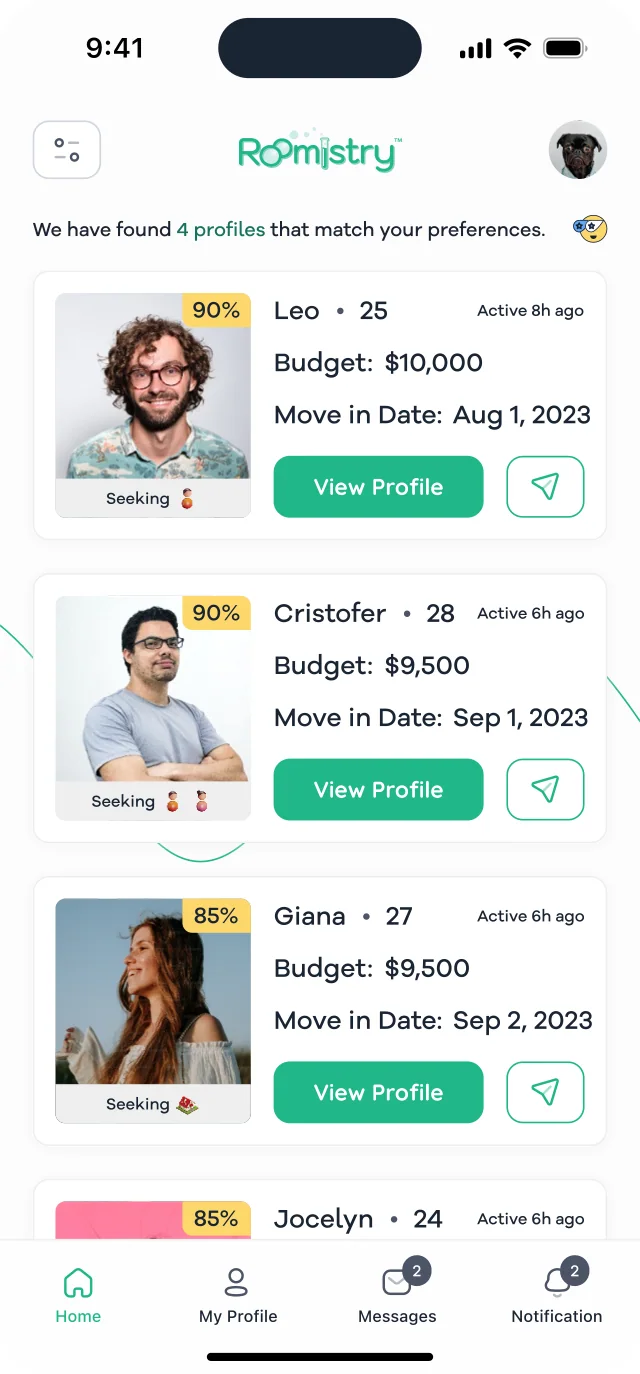
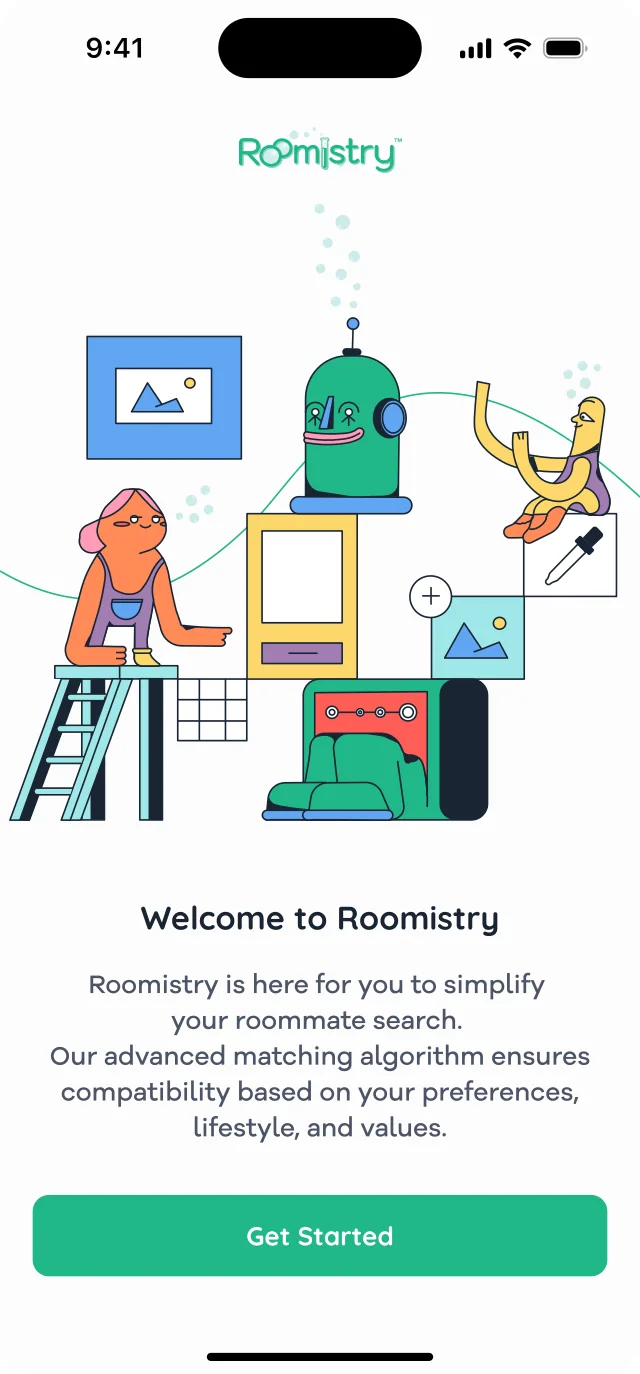
Proof: Roomistry phone steps through its seven-screen flow

diff --git a/src/content/story.ts b/src/content/story.ts
@@ -209,7 +209,19 @@ export const WORK: readonly WorkProject[] = [
       ['Platform', 'Mobile app'],
     ],
     media: [
-      m('phone', 640, 1374, ['roomistry-0', 'Roomistry: welcome'], ['roomistry-1', 'Roomistry: matched roommates'], ['roomistry-2', 'Roomistry: a roommate profile']),
+      // taps land where a finger would press: Get Started, an answer, View Profile, Message now
+      m(
+        'phone',
+        640,
+        1374,
+        ['roomistry-0', 'Roomistry: the splash screen'],
+        ['roomistry-1', 'Roomistry: welcome to Roomistry'],
+        ['roomistry-2', 'Roomistry: the questionnaire, cleanliness', [0.5, 0.899]],
+        ['roomistry-3', 'Roomistry: the questionnaire, passions', [0.25, 0.395]],
+        ['roomistry-4', 'Roomistry: four roommates that match'],
+        ['roomistry-5', 'Roomistry: a roommate profile', [0.59, 0.354]],
+        ['roomistry-6', 'Roomistry: messaging a roommate', [0.657, 0.306]],
+      ),
     ],
   },
   {
